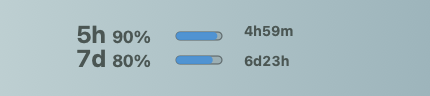
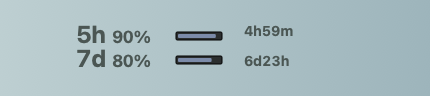
fix: match monitor bar casing

Changed region(s): [[0.393, 0.5625, 0.5442, 0.6875], [0.393, 0.3125, 0.5442, 0.4375]]

diff --git a/native/CodexGauge.swift b/native/CodexGauge.swift
@@ -1832,7 +1832,7 @@ private final class CodexGaugeApp: NSObject, NSApplicationDelegate {
     private let menuBarHorizontalRailRect = NSRect(x: 46, y: 3, width: 20, height: 16)
     private let menuBarRefreshCountdownRect = NSRect(x: 67, y: 2, width: 26, height: 18)
     private let signalPopoverSize = NSSize(width: 560, height: 560)
-    private let quotaRailSize = NSSize(width: 20, height: 4)
+    private let quotaRailSize = NSSize(width: 20, height: 5)
     private let signalRailSegments = 10
     private let codexCliBundlePath = "/Applications/Codex.app/Contents/Resources/codex"
     private let normalQuotaColor = NSColor(calibratedRed: 0.58, green: 1.00, blue: 0.89, alpha: 0.95)
@@ -3914,11 +3914,12 @@ private final class CodexGaugeApp: NSObject, NSApplicationDelegate {
     }
 
     private func drawMenuBarHorizontalQuotaBar(value: Int?, rect: NSRect, palette: GaugePalette, fillColor: NSColor) {
-        let cornerRadius = rect.height / 2
-        let track = NSBezierPath(roundedRect: rect, xRadius: cornerRadius, yRadius: cornerRadius)
+        let cornerRadius = min(1.4, rect.height / 3.0)
+        let trackRect = statusPixelAlignedRect(rect)
+        let track = NSBezierPath(roundedRect: trackRect, xRadius: cornerRadius, yRadius: cornerRadius)
         systemMonitorMenuBarMeterTrackColor().setFill()
         track.fill()
-        systemMonitorMenuBarMeterOutlineColor().withAlphaComponent(0.52).setStroke()
+        systemMonitorMenuBarMeterOutlineColor().setStroke()
         track.lineWidth = max(0.5, 1.0 / max(1.0, currentStatusImageScale))
         track.stroke()
 
@@ -3926,17 +3927,18 @@ private final class CodexGaugeApp: NSObject, NSApplicationDelegate {
             return
         }
 
-        let fillWidth = min(rect.width, max(rect.height, rect.width * clampedFraction(value)))
+        let innerRect = rect.insetBy(dx: 1.0, dy: 1.0)
+        let fillWidth = min(innerRect.width, max(1.2, innerRect.width * clampedFraction(value)))
         let fillRect = NSRect(
-            x: rect.minX,
-            y: rect.minY,
+            x: innerRect.minX,
+            y: innerRect.minY,
             width: fillWidth,
-            height: rect.height
+            height: innerRect.height
         )
         let fill = NSBezierPath(
             roundedRect: statusPixelAlignedRect(fillRect),
-            xRadius: cornerRadius,
-            yRadius: cornerRadius
+            xRadius: 0.8,
+            yRadius: 0.8
         )
         fillColor.setFill()
         fill.fill()
@@ -3973,15 +3975,15 @@ private final class CodexGaugeApp: NSObject, NSApplicationDelegate {
     }
 
     private func systemMonitorMenuBarBlue() -> NSColor {
-        NSColor(calibratedRed: 0.22, green: 0.48, blue: 0.80, alpha: 0.88)
+        NSColor(calibratedRed: 0.43, green: 0.49, blue: 0.63, alpha: 0.94)
     }
 
     private func systemMonitorMenuBarMeterTrackColor() -> NSColor {
-        NSColor(calibratedWhite: 0.04, alpha: 0.10)
+        NSColor(calibratedWhite: 0.08, alpha: 0.88)
     }
 
     private func systemMonitorMenuBarMeterOutlineColor() -> NSColor {
-        NSColor(calibratedWhite: 0.05, alpha: 0.64)
+        NSColor(calibratedWhite: 0.02, alpha: 0.86)
     }
 
     private func drawQuotaRail(value: Int?, rect: NSRect, palette: GaugePalette) {

diff --git a/script/generate_public_assets.swift b/script/generate_public_assets.swift
@@ -132,21 +132,22 @@ func menuBarText(_ value: String, at point: NSPoint, size: CGFloat, weight: NSFo
 }
 
 func drawMenuBarHorizontalQuotaBar(value: CGFloat, rect: NSRect, fill: NSColor, track: NSColor, stroke: NSColor) {
-    let shell = NSBezierPath(roundedRect: rect, xRadius: rect.height / 2, yRadius: rect.height / 2)
+    let shell = NSBezierPath(roundedRect: rect, xRadius: 1.6, yRadius: 1.6)
     track.setFill()
     shell.fill()
-    stroke.withAlphaComponent(0.46).setStroke()
+    stroke.setStroke()
     shell.lineWidth = 1.2
     shell.stroke()
 
     let fraction = max(0, min(1, value))
+    let innerRect = rect.insetBy(dx: 2.0, dy: 2.0)
     let fillRect = NSRect(
-        x: rect.minX,
-        y: rect.minY,
-        width: min(rect.width, max(rect.height, rect.width * fraction)),
-        height: rect.height
+        x: innerRect.minX,
+        y: innerRect.minY,
+        width: min(innerRect.width, max(2.4, innerRect.width * fraction)),
+        height: innerRect.height
     )
-    let fillPath = NSBezierPath(roundedRect: fillRect, xRadius: rect.height / 2, yRadius: rect.height / 2)
+    let fillPath = NSBezierPath(roundedRect: fillRect, xRadius: 1.0, yRadius: 1.0)
     fill.setFill()
     fillPath.fill()
 }
@@ -178,9 +179,9 @@ func writeMenuBarPNG(_ path: String) throws {
     NSGraphicsContext.current = NSGraphicsContext(bitmapImageRep: bitmap)
 
     let ink = NSColor(calibratedRed: 0.22, green: 0.26, blue: 0.25, alpha: 0.98)
-    let line = NSColor(calibratedWhite: 0.05, alpha: 0.64)
-    let systemMonitorBlue = NSColor(calibratedRed: 0.22, green: 0.48, blue: 0.80, alpha: 0.88)
-    let meterTrack = NSColor(calibratedWhite: 0.04, alpha: 0.10)
+    let line = NSColor(calibratedWhite: 0.02, alpha: 0.86)
+    let systemMonitorBlue = NSColor(calibratedRed: 0.43, green: 0.49, blue: 0.63, alpha: 0.94)
+    let meterTrack = NSColor(calibratedWhite: 0.08, alpha: 0.88)
     let taupe = NSColor(calibratedRed: 0.52, green: 0.48, blue: 0.42, alpha: 0.96)
 
     NSGradient(colors: [

diff --git a/tests/test_signal_console_ux.py b/tests/test_signal_console_ux.py
@@ -63,7 +63,7 @@ class SignalConsoleUXTests(unittest.TestCase):
             "menuBarUsagePercentRect = NSRect(x: 2, y: 3, width: 54, height: 16)",
             "menuBarHorizontalRailRect = NSRect(x: 46, y: 3, width: 20, height: 16)",
             "menuBarRefreshCountdownRect = NSRect(x: 67, y: 2, width: 26, height: 18)",
-            "quotaRailSize = NSSize(width: 20, height: 4)",
+            "quotaRailSize = NSSize(width: 20, height: 5)",
             "drawMenuBarUsagePercentRow(window: \"5h\", quotaLeft: fiveHourLeft, y: 13.0",
             "drawMenuBarUsagePercentRow(window: \"7d\", quotaLeft: sevenDayLeft, y: 4.0",
             "NSFont.monospacedDigitSystemFont(ofSize: 8.0, weight: .semibold)",
@@ -72,6 +72,10 @@ class SignalConsoleUXTests(unittest.TestCase):
             "drawMenuBarHorizontalQuotaBar",
             "systemMonitorMenuBarTextColor",
             "systemMonitorMenuBarBlue",
+            "let cornerRadius = min(1.4, rect.height / 3.0)",
+            "let innerRect = rect.insetBy(dx: 1.0, dy: 1.0)",
+            "NSColor(calibratedRed: 0.43, green: 0.49, blue: 0.63, alpha: 0.94)",
+            "NSColor(calibratedWhite: 0.08, alpha: 0.88)",
             "drawMenuBarCountdownText",
             "compactMenuBarPercentText",
             "morandiMenuBarSage",
@@ -85,6 +89,7 @@ class SignalConsoleUXTests(unittest.TestCase):
         self.assertIn("drawMenuBarCountdownText(text: sevenDayText", countdown_body)
         self.assertIn("compactMenuBarPercentText(value)", usage_row_body)
         self.assertIn("percentText as NSString", usage_row_body)
+        self.assertNotIn("let cornerRadius = rect.height / 2", source)
         self.assertNotIn("drawMenuBarVerticalQuotaMeter", source)
         self.assertNotIn("drawMenuBarMinimalMorandiPill", source)
         self.assertNotIn("morandiMenuBarShellTop", source)

diff --git a/tests/test_native_codex_only.py b/tests/test_native_codex_only.py
@@ -109,7 +109,7 @@ class NativeCodexOnlyTests(unittest.TestCase):
         self.assertIn("menuBarUsagePercentRect", source)
         self.assertIn("menuBarHorizontalRailRect", source)
         self.assertIn("menuBarRefreshCountdownRect", source)
-        self.assertIn("quotaRailSize = NSSize(width: 20, height: 4)", source)
+        self.assertIn("quotaRailSize = NSSize(width: 20, height: 5)", source)
         self.assertIn("fiveHourReset: status.fiveHourReset", source)
         self.assertIn("sevenDayReset: status.sevenDayReset", source)
         self.assertIn("drawPlanBGauge", source)
@@ -134,6 +134,11 @@ class NativeCodexOnlyTests(unittest.TestCase):
         self.assertIn("bucketedGaugeColor", source)
         self.assertIn("resetLaneColor", source)
         self.assertIn("fillColor: systemMonitorMenuBarBlue()", source)
+        self.assertIn("let cornerRadius = min(1.4, rect.height / 3.0)", source)
+        self.assertIn("let innerRect = rect.insetBy(dx: 1.0, dy: 1.0)", source)
+        self.assertIn("NSColor(calibratedRed: 0.43, green: 0.49, blue: 0.63, alpha: 0.94)", source)
+        self.assertIn("NSColor(calibratedWhite: 0.08, alpha: 0.88)", source)
+        self.assertNotIn("let cornerRadius = rect.height / 2", source)
         self.assertIn("moodPulseStep", source)
         self.assertIn("animationTimer", source)
         self.assertIn("startMoodAnimation", source)

diff --git a/tests/test_public_release_hygiene.py b/tests/test_public_release_hygiene.py
@@ -207,6 +207,11 @@ class PublicReleaseHygieneTests(unittest.TestCase):
         self.assertIn("let strip = NSRect(x: 64, y: 20, width: 252, height: 56)", script)
         self.assertIn("drawMenuBarHorizontalQuotaBar(value:", script)
         self.assertIn("systemMonitorBlue", script)
+        self.assertIn("xRadius: 1.6", script)
+        self.assertIn("let innerRect = rect.insetBy(dx: 2.0, dy: 2.0)", script)
+        self.assertIn("NSColor(calibratedRed: 0.43, green: 0.49, blue: 0.63, alpha: 0.94)", script)
+        self.assertIn("NSColor(calibratedWhite: 0.08, alpha: 0.88)", script)
+        self.assertNotIn("xRadius: rect.height / 2", script)
         self.assertNotIn("drawMenuBarVerticalQuotaMeter(value:", script)
         self.assertIn("drawMenuBarRefreshCountdown", script)
         self.assertIn("drawMenuBarCountdownText", script)
